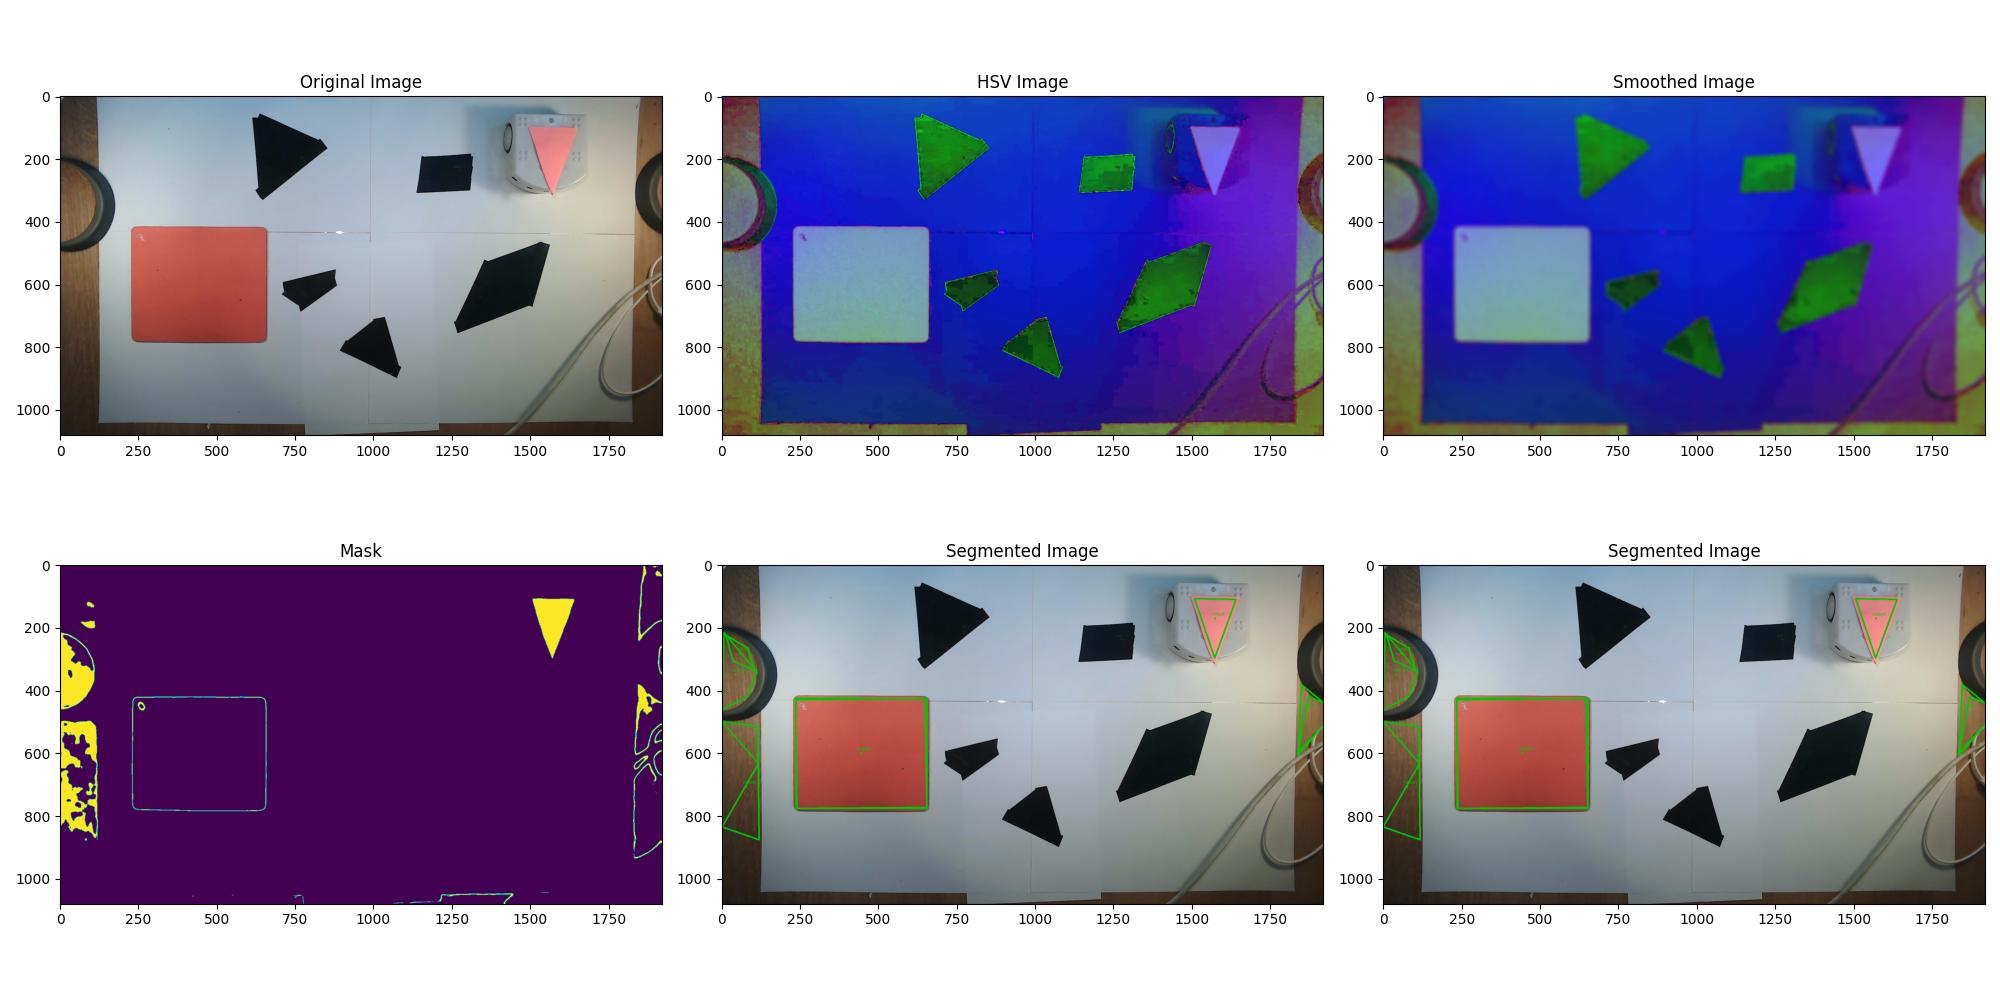
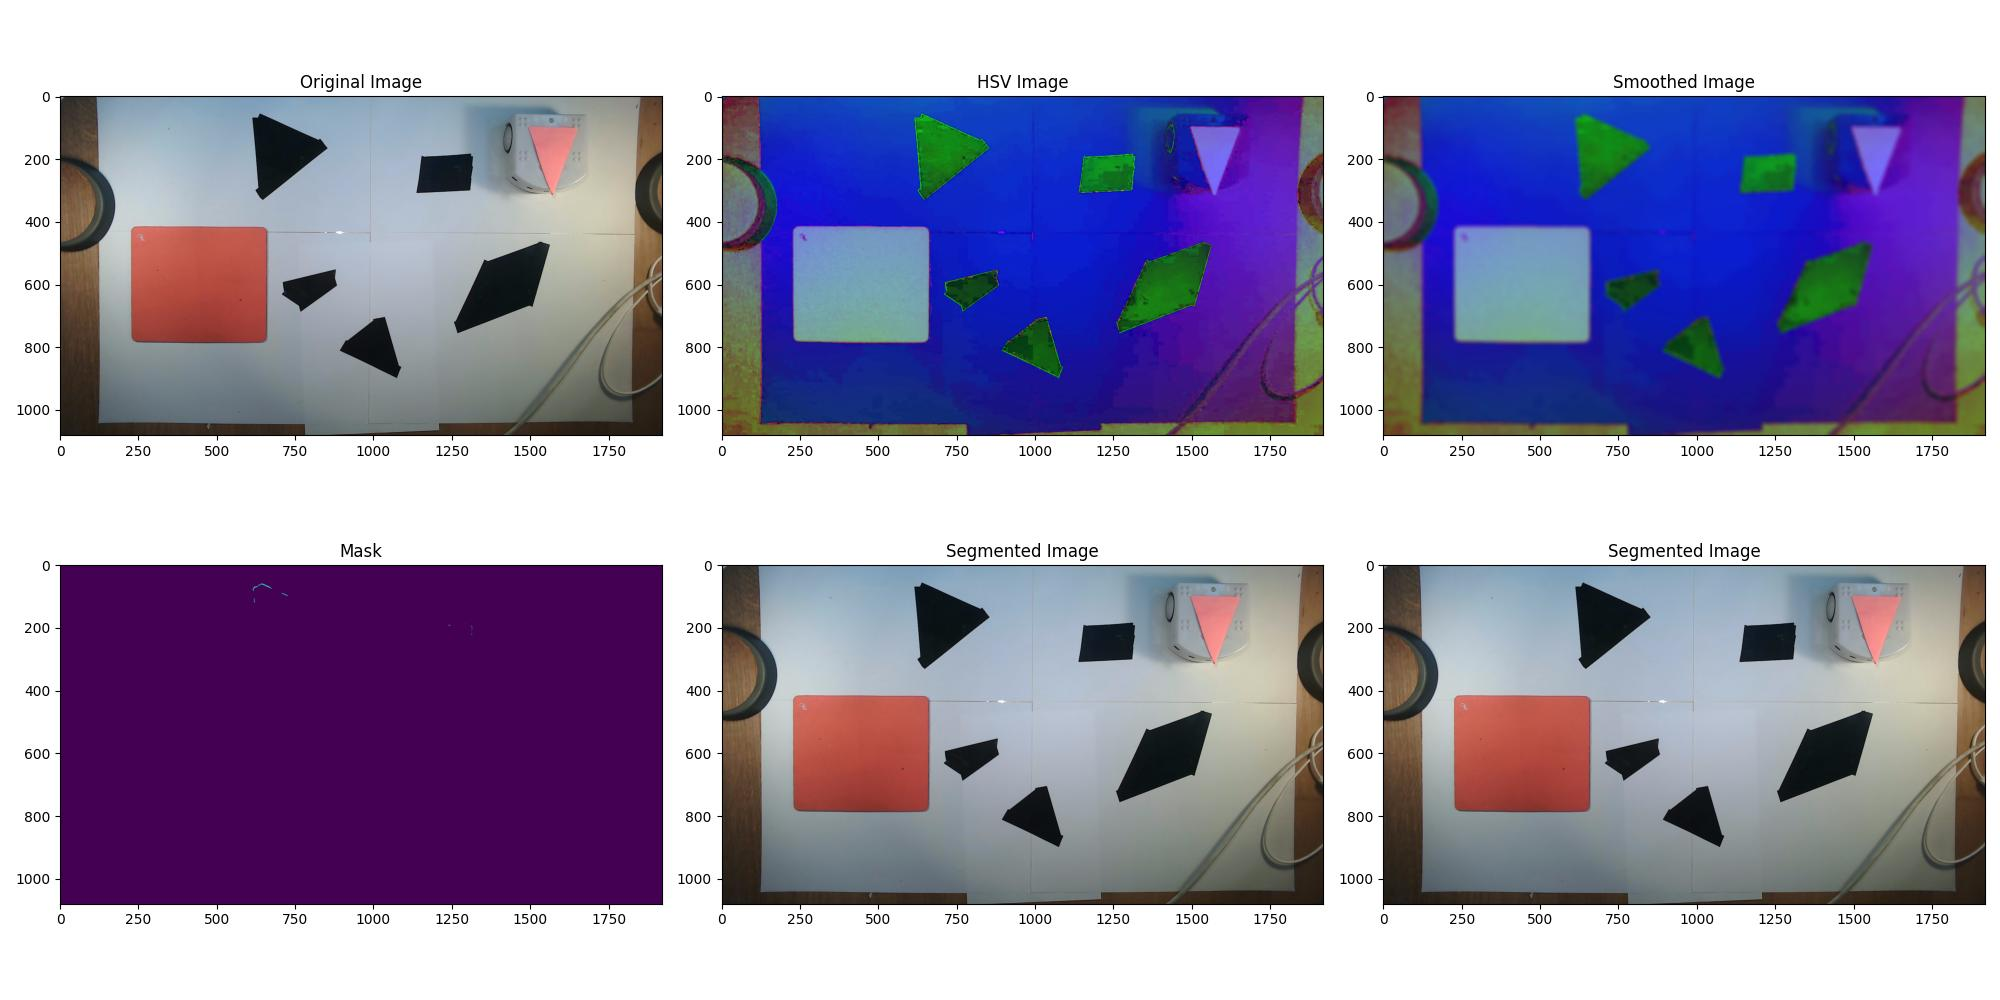
improved cv

diff --git a/computer_vision.py b/computer_vision.py
@@ -11,10 +11,10 @@ font = cv2.FONT_HERSHEY_SIMPLEX
 #color array with blue, green and red in hsv, for the object contour coloring(in bgr)
 
 #obstacle color boundaries(min, max) black, and the color of the contour
-obst_bound = np.array([[0, 0, 0], [180,255,60], [0, 0 , 200]])
+obst_bound = np.array([[0, 0, 0], [220,255,60], [0, 0 , 200]])
 
 #thymio color boundaries(min,max) green and the color of the contour
-robot_bound = np.array([[60, 100, 60], [135, 120,255], [0, 200, 0]])
+robot_bound = np.array([[15, 120, 80], [55, 180,125], [0, 200, 0]])
 
 #goal color boundaries(min,max) red and the color of the contour
 goal_bound = np.array([[150, 60, 10], [200, 255,255], [200, 0, 255]])
@@ -26,7 +26,7 @@ object_colors =   {'obstacle'       : obst_bound,
                 }
 
 
-def setup_camera(exposure_time):
+def setup_camera(exposure_time = None):
     #cv2.namedWindow("Computer Vision", cv2.WINDOW_NORMAL)
 
     video_capture = cv2.VideoCapture(0,cv2.CAP_DSHOW)
@@ -35,7 +35,9 @@ def setup_camera(exposure_time):
         exit()
     video_capture.set(cv2.CAP_PROP_FRAME_WIDTH, 1280 )
     video_capture.set(cv2.CAP_PROP_FRAME_HEIGHT, 720)
-    video_capture.set(cv2.CAP_PROP_EXPOSURE,exposure_time)
+    if exposure_time != None:
+        video_capture.set(cv2.CAP_PROP_EXPOSURE, exposure_time)
+    
    
     return video_capture
 
@@ -104,20 +106,6 @@ def object_detection(object, img, img_masked, arc_length_precision = 0.05, min_a
     
     return centers, objects, areas
 
-
-# TODO: redefine robot_contour to be 1D
-def get_robot_position(robot_center, robot_contour):
-    min_dist = 0
-    min_index = 0
-    for i in range(len(robot_contour)):
-        if euclidean(robot_contour[0][i], robot_center) > min_dist:
-            min_dist = euclidean(robot_contour[i], robot_center)
-            min_index = i
-    dir_vector = robot_contour[0][min_index] - robot_center
-    alpha = np.arctan2(dir_vector[1], dir_vector[0])
-    return robot_center[0], robot_center[1], alpha
-
-
 def computer_vision(img, object):
     img_processed = img.copy()
     # 1. convert to hsv color space
@@ -142,30 +130,93 @@ def computer_vision(img, object):
     return centers, contours, img_processed
 
 
-#read image as rgb
-img = cv2.imread('test.jpg')
-img = cv2.cvtColor(img, cv2.COLOR_RGB2BGR)
-fig, ax = plt.subplots(2, 3, figsize=(20, 10))
 
-img_processed = img.copy()
-img_hsv = cv2.cvtColor(img_processed, cv2.COLOR_BGR2HSV)
-img_smooth = image_smoothing(img_hsv)
-mask = object_mask('robot', img_smooth)
-centers, contours, areas = object_detection('robot', img_processed, mask)
+# TODO: redefine robot_contour to be 1D
+def get_robot_position(frame, robot_center, robot_contour):
+    center = np.array(robot_center, dtype="object")
+    contour = np.array(robot_contour, dtype="object")
+    center = np.reshape(np.ravel(center), (-1,2))
+    contour = np.reshape(np.ravel(contour), (-1,2)) 
+    
+    min_dist = 0
+    max_index = 0
+    dir_vector = alpha = 0
+    for i in range(len(contour)):
+        if euclidean(contour[i], center[0]) > min_dist:
+            min_dist = euclidean(contour[i], center[0])
+            max_index = i
+    dir_vector = contour[max_index] - center[0]
+    
+    alpha = np.arctan2(dir_vector[1], dir_vector[0])
+    cv2.arrowedLine(frame, center[0], contour[max_index], (0, 0, 255), 2)
 
-#plot images
-ax[0,0].imshow(img)
-ax[0,0].set_title('Original Image')
-ax[0,1].imshow(img_hsv)
-ax[0,1].set_title('HSV Image')
-ax[0,2].imshow(img_smooth)
-ax[0,2].set_title('Smoothed Image')
-ax[1,0].imshow(mask)
-ax[1,0].set_title('Mask')
-ax[1,1].imshow(img_processed)
-ax[1,1].set_title('Segmented Image')
-ax[1,2].imshow(img_processed)
-ax[1,2].set_title('Segmented Image')
+    return dir_vector, alpha
 
-fig.tight_layout()
-fig.savefig('data1.jpeg')
+def cv_start(show_image = False):
+    video_capture = setup_camera()
+    # read first 100 frames, to give time to the camera to adapt to the light
+    video_capture.read(200)
+
+    # read frame for further analysis
+    ret, frame = video_capture.read()
+
+    while(True):
+        # detect each type of object
+        robot_center, robot_contour, frame_robot = computer_vision(frame, 'robot')
+        obst_centers, obst_contours, frame_obst = computer_vision(frame, 'obstacle')
+        goal_center, goal_contours, frame_goal = computer_vision(frame, 'goal')
+        if len(robot_center) == 1:
+            break
+        else:
+            ret, frame = video_capture.read()
+
+    # get robot direction
+    dir, alpha = get_robot_position(frame_robot, robot_center, robot_contour)
+    
+    if show_image:
+        # show the frames
+        cv2.imshow('Computer Vision', frame_robot)
+        while True:
+            if cv2.waitKey(1) & 0xFF == ord('q'):
+                break
+        
+        # Release the capture
+        video_capture.release() 
+        cv2.destroyAllWindows()
+        
+    position = [robot_center[0][0], robot_center[0][1], alpha]
+    return position
+
+position = cv_start()
+print(position)
+
+
+#
+##read image as rgb
+#img = cv2.imread('test.jpg')
+#img = cv2.cvtColor(img, cv2.COLOR_RGB2BGR)
+#fig, ax = plt.subplots(2, 3, figsize=(20, 10))
+#
+#img_processed = img.copy()
+#img_hsv = cv2.cvtColor(img_processed, cv2.COLOR_BGR2HSV)
+#img_smooth = image_smoothing(img_hsv)
+#mask = object_mask('robot', img_smooth)
+#centers, contours, areas = object_detection('robot', img_processed, mask)
+#
+##plot images
+#ax[0,0].imshow(img)
+#ax[0,0].set_title('Original Image')
+#ax[0,1].imshow(img_hsv)
+#ax[0,1].set_title('HSV Image')
+#ax[0,2].imshow(img_smooth)
+#ax[0,2].set_title('Smoothed Image')
+#ax[1,0].imshow(mask)
+#ax[1,0].set_title('Mask')
+#ax[1,1].imshow(img_processed)
+#ax[1,1].set_title('Segmented Image')
+#ax[1,2].imshow(img_processed)
+#ax[1,2].set_title('Segmented Image')
+#
+#fig.tight_layout()
+#fig.savefig('data1.jpeg')
+#

diff --git a/project.py b/project.py
@@ -6,26 +6,18 @@ object =[]
 framerate = 30
 time_prev = 0
 
-video_capture = setup_camera(-8)
+
 
 while True:
     time_elapsed = time.time() - time_prev
-    ret, frame = video_capture.read()
     
     
-    obst_centers, obst_contours, frame_obst = computer_vision(frame, 'obstacle')
-    goal_center, goal_contours, frame_goal = computer_vision(frame, 'goal')
-    robot_center, robot_contour, frame_robot = computer_vision(frame, 'robot')
     
-    cv2.imshow('Computer Vision', frame_goal)
-    if cv2.waitKey(1) & 0xFF == ord('q'):
-        break
+    
+    
+    
 
 
-
-# Release the capture
-video_capture.release() 
-cv2.destroyAllWindows()
 
 
 
